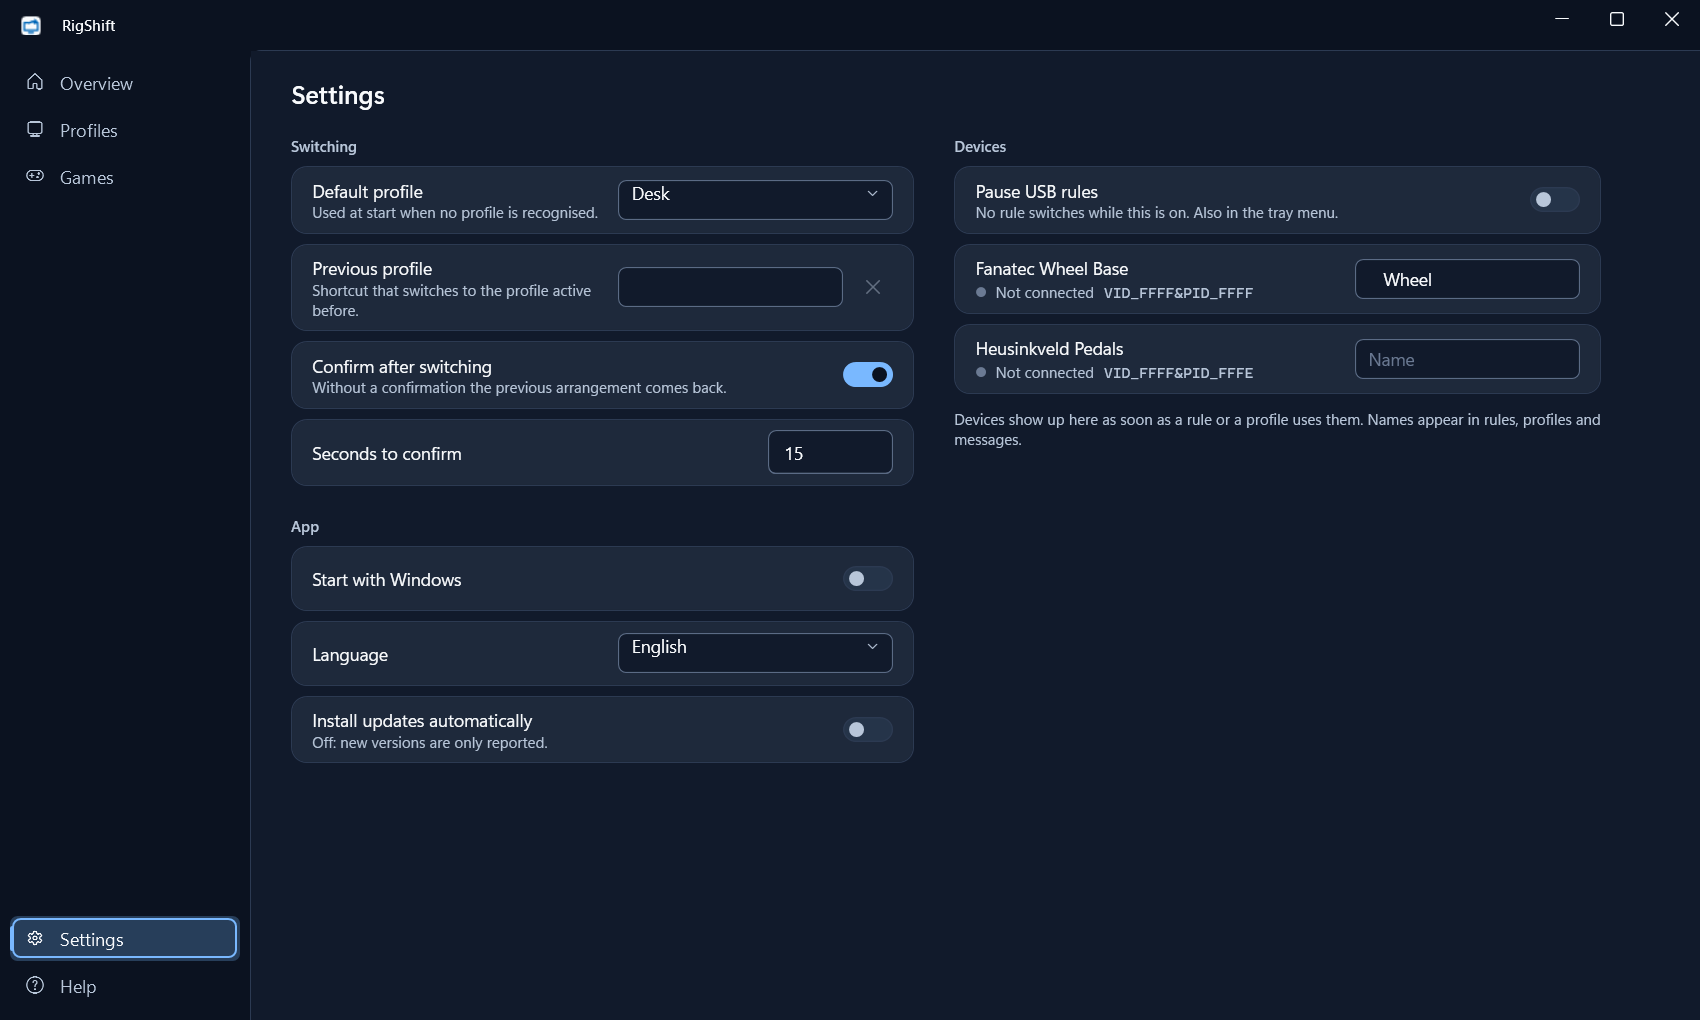
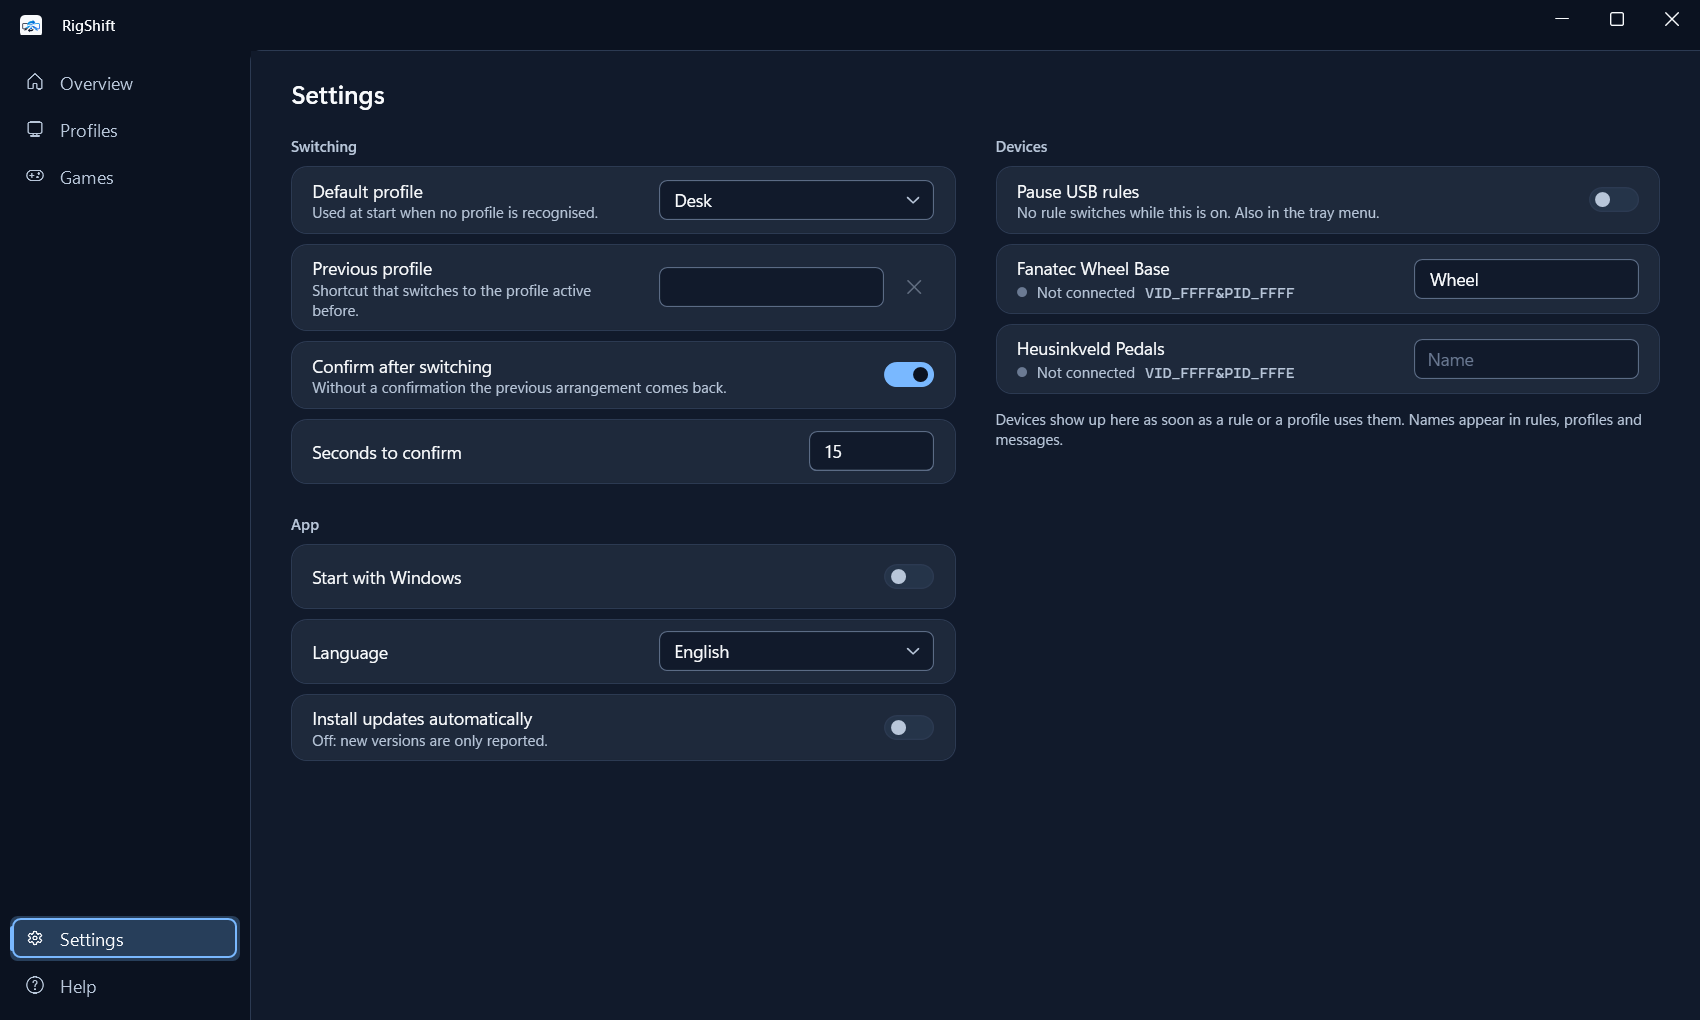
docs: 3.0.1 changelog and screenshots from the fixed interface

diff --git a/CHANGELOG.md b/CHANGELOG.md
@@ -6,6 +6,23 @@ All notable changes to this project are documented here. The format follows
 
 ## [Unreleased]
 
+## [3.0.1] - 2026-09-17
+
+### Fixed
+
+- **Text in drop downs sat above the middle of its box** and started a few pixels further left than in a text field.
+  Both now sit on the same baseline and the same inset, and a long entry ends in an ellipsis instead of running under
+  the arrow.
+- **Text in a text field sat too far from the left edge**: the field's padding was counted twice.
+- **Cut off text at the window's smallest width.** Two column layouts now put their second column underneath instead
+  of running off the page - the display's properties, audio, triggers, the settings groups and the help cards. A
+  checkbox or radio button with a long label wraps instead of being clipped.
+- **The arrangement's tiles** drop the refresh rate, and then the monitor model, rather than cutting a number in half.
+- **The overview's display table** keeps its last column at every window width.
+- **The setup assistant and the pickers had a grey title bar and side rail** instead of the brand navy.
+- **The app icon inside the app** is drawn as vector now, so it stays sharp in the title bar, the help card and the
+  assistant at every scaling.
+
 ## [3.0.0] - 2026-09-17
 
 The whole interface was redrawn around what you actually do: pick a profile, look at it, change one thing, switch.
